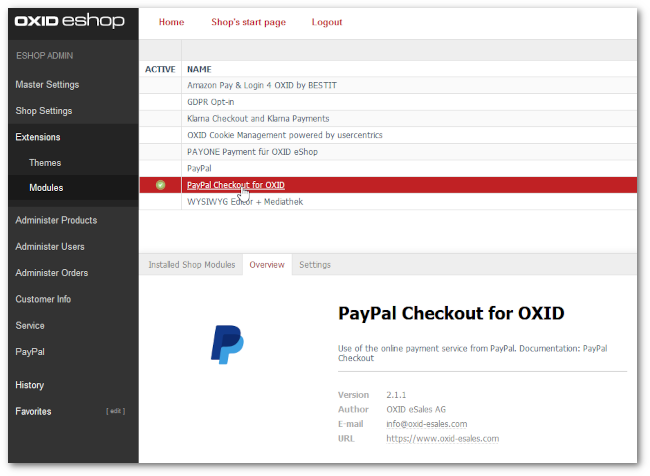
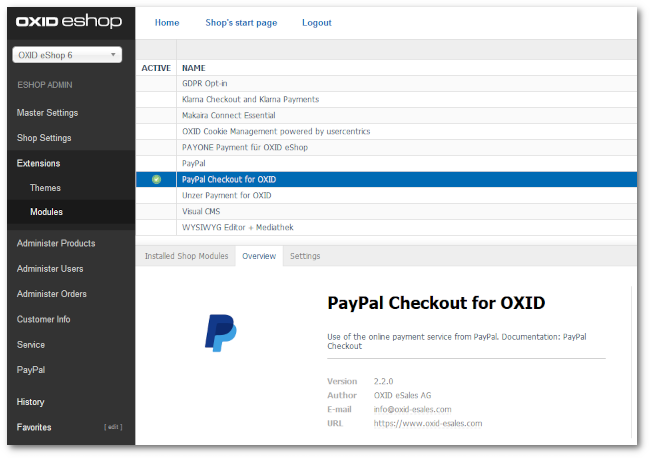
2.2 installation -- EN

diff --git a/installation.rst b/installation.rst
@@ -1,19 +1,22 @@
 Installation
 ============
 
-To install the payment module :productname:`PayPal Checkout`, follow different procedures to supprt either OXID eShop version 6.1 or OXID eShop version 6.2 and higher.
+To install the :productname:`PayPal Checkout` payment module, follow different procedures depending on your OXID eShop version:
+
+* If you have OXID eShop version 6.3.x or higher, install :productname:`PayPal Checkout` 2.2.0.
+* If you have OXID eShop version 6.1.x or 6.2.x, install :productname:`PayPal Checkout` 1.2.0.
 
 Earlier versions of OXID eShop prior to version 6.1 are not supported.
 
 
-Installing PayPal Checkout for OXID eShop version 6.2 and higher
+Installing PayPal Checkout for OXID eShop version 6.3 and higher
 ----------------------------------------------------------------
 
-Install the payment module :productname:`PayPal Checkout` for OXID eShop version 6.2 and higher.
+Install the payment module :productname:`PayPal Checkout` for OXID eShop version 6.3 and higher.
 
 |prerequisites|
 
-* You have installed OXID eShop 6.2 or higher.
+* You have installed OXID eShop 6.3 or higher.
 * You have configured `https`.
 
    a. In the :file:`<root directory of the eShop>/source` directory, open the :file:`config.inc.php` file.
@@ -40,8 +43,7 @@ Install the payment module :productname:`PayPal Checkout` for OXID eShop version
    .. code:: bash
 
       composer config repositories.oscpaypal composer https://paypal-module.packages.oxid-esales.com/
-      composer require oxid-solution-catalysts/paypal-module ^2.0.0
-      composer install
+      composer require oxid-solution-catalysts/paypal-module ^2.2.0
 
 #. Optional: To activate the module, run the following command.
    |br|
@@ -65,22 +67,21 @@ When the installation process is finished, the module :guilabel:`PayPal Checkout
 
 Next step: To configure :productname:`PayPal Checkout`, choose :guilabel:`Next`.
 
-Installing PayPal Checkout for OXID eShop version 6.1
------------------------------------------------------
+Installing PayPal Checkout for OXID eShop version 6.1.x or 6.2.x
+----------------------------------------------------------------
 
-To install :productname:`PayPal Checkout` for OXID eShop version 6.1, install :productname:`PayPal Checkout` V. 1.0.
+To install :productname:`PayPal Checkout` for OXID eShop version 6.1.x or 6.2.x, install :productname:`PayPal Checkout` V. 1.2.0.
 
 |procedure|
 
-Follow the same procedure for installation for OXID eShop version 6.2 and higher (see :ref:`installation:Installing PayPal Checkout for OXID eShop version 6.2 and higher`).
+Follow the same procedure for installation for OXID eShop version 6.3 and higher (see :ref:`installation:Installing PayPal Checkout for OXID eShop version 6.3 and higher`).
 
 Execute the commands as follows:
 
    .. code:: bash
 
-      composer config repositories.oscpaypal composer https://paypal-module.packages.oxid-esales.com/
-      composer require oxid-solution-catalysts/paypal-module ^1.0.0
-      composer install
+      composer require oxid-solution-catalysts/paypal-module ^1.2.0
+
 
 Installing a patch update
 -------------------------
@@ -115,8 +116,6 @@ If required, install a patch update (from :productname:`PayPal Checkout` version
 
    1. Choose :menuselection:`Shop Settings --> Payment Methods --> <payment method> --> Country --> Assign Countries`.
    #. To use the entire country coverage of a payment type, delete existing mappings.
-
-
 
 
 .. Internal: oxdajq, status:

diff --git a/configuration.rst b/configuration.rst
@@ -217,9 +217,7 @@ We describe the process using a sandbox account as an example. The live process 
 #. Select :guilabel:`Sign Up Merchant Integration (Sandbox)`.
 #. Go through the registration process with the sandbox merchant account email address.
 
-   a. Log in (:ref:`oxdajr01`), and confirm the prompts.
-
-      .. todo: #tbd: screenshot EN
+   a. Log in with your (sandbox) merchant account (:ref:`oxdajr01`), and confirm the prompts.
 
       .. _oxdajr01:
 
